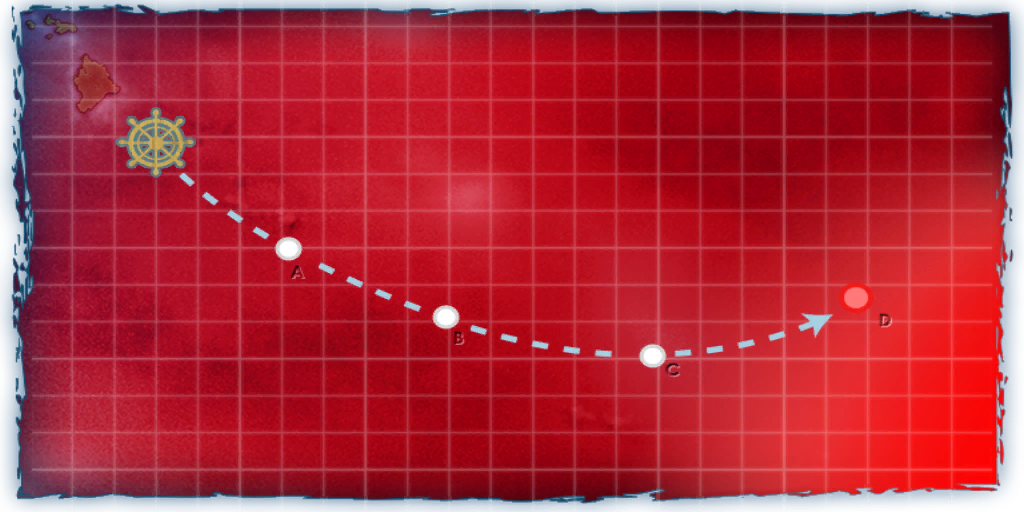
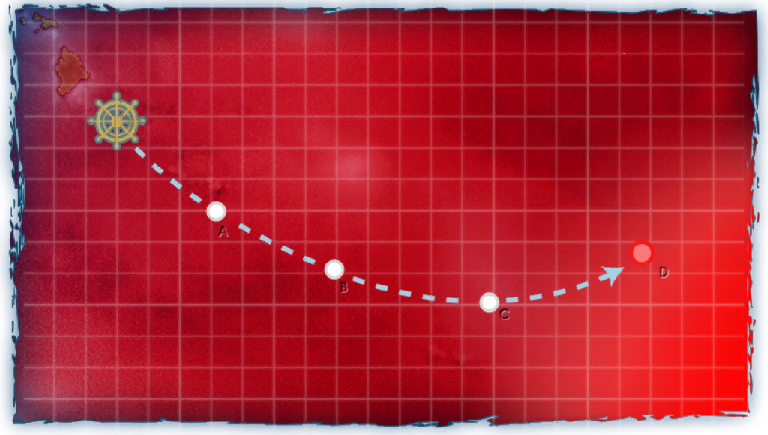
Update interim E-3 map and node markers

diff --git a/js/chkcMAPDATA2.js b/js/chkcMAPDATA2.js
@@ -3300,14 +3300,14 @@ var MAPDATA = {
 				nodes:{
 					'Start':{
 						type: 0,
-						x: 154,
-						y: 140,
+						x: 117,
+						y: 120,
 						route: 'A',
 					},
 					'A':{
 						type: 1,
-						x: 289,
-						y: 240,
+						x: 217,
+						y: 212,
 						route: 'B',
 						compDiff:{
 							3:['Hard 1','Hard 2','Hard 3','Hard 4','Hard 5','Hard 6']
@@ -3315,8 +3315,8 @@ var MAPDATA = {
 					},
 					'B':{
 						type: 1,
-						x: 445,
-						y: 317,
+						x: 333,
+						y: 269,
 						route: 'C',
 						subonly: true,
 						compDiff:{
@@ -3325,8 +3325,8 @@ var MAPDATA = {
 					},
 					'C':{
 						type: 1,
-						x: 654,
-						y: 348,
+						x: 490,
+						y: 302,
 						route: 'D',
 						compDiff:{
 							3:['Hard 1','Hard 2','Hard 3','Hard 4','Hard 5']
@@ -3334,8 +3334,8 @@ var MAPDATA = {
 					},
 					'D':{
 						type: 0,
-						x: 856,
-						y: 296,
+						x: 642,
+						y: 253,
 						end: true,
 						compDiff:{
 							3:['Hard 1','Hard 2','Hard 3']
